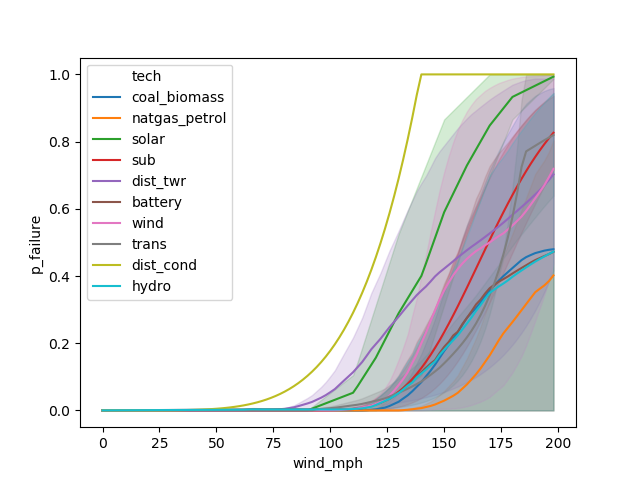
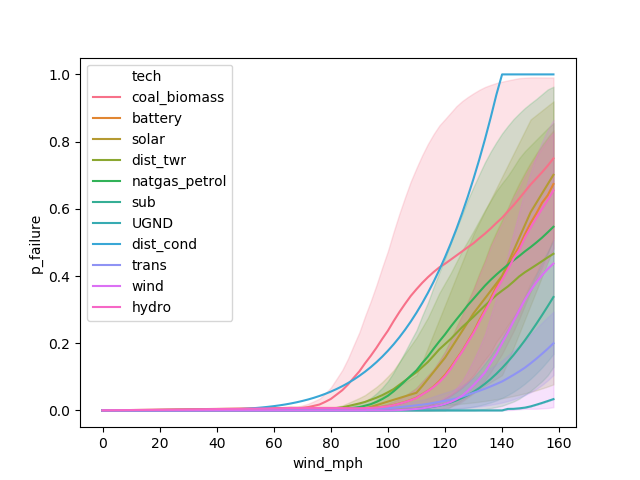
updated selected fragility curves to moderate + severe

diff --git a/examples/puerto_rico_stoch/fragility_curves/select_fragility_curves.py b/examples/puerto_rico_stoch/fragility_curves/select_fragility_curves.py
@@ -13,16 +13,16 @@ import temoatools as tt
 curves = {"trans": ["trans_UK_base", "trans_TX"], "sub": ["sub_HAZUS_severe_k1", "sub_HAZUS_severe_k5"],
         "dist_cond": ["dist_cond_TX"],
           "dist_twr": ["dist_TX", "dist_60yr"], "wind": ["wind_yaw", "wind_nonyaw"],
-          "solar": ["solar_res", "solar_utility"], "coal_biomass": ["secbh_severe", "inf_stiff"],
-          "natgas_petrol": ["secbm_severe", "inf_stiff"], "battery": ["secbl_severe", "inf_stiff"],
-          "hydro": ["cecbl_severe", "inf_stiff"], }
+          "solar": ["solar_res", "solar_utility"], "coal_biomass": ["secbh_moderate", "secbh_severe"],
+          "natgas_petrol": ["secbm_moderate", "secbm_severe"], "battery": ["secbl_moderate", "secbl_severe"],
+          "hydro": ["cecbl_moderate", "cecbl_severe"], "UGND":["secbl_destr","secbl_destr"]}
 
 group1 = "T&D"
 group2 = "Renew"
 group3 = "Other"
 
 groups = {"trans": group1, "sub": group1, "dist_twr": group1, "dist_cond": group1, "wind": group2, "solar": group2, "coal_biomass": group3,
-          "natgas_petrol": group3, "battery": group3, "hydro": group2, }
+          "natgas_petrol": group3, "battery": group3, "hydro": group2, "UGND": group1}
 
 # ================================#
 # Calculate damage across a range of windspeeds
@@ -30,7 +30,7 @@ groups = {"trans": group1, "sub": group1, "dist_twr": group1, "dist_cond": group
 
 cols = ["tech", "curve", "group", "wind_mph", "p_failure"]
 df = pd.DataFrame(columns=cols)
-wind_mph = np.arange(0, 200, 2)
+wind_mph = np.arange(0, 160, 2)
 
 for tech in curves.keys():
     for curve in curves[tech]:
@@ -60,19 +60,26 @@ plt.savefig("fragility_curves_by_tech.png", DPI=1000)
 
 # best and worst case fragility curves for each group
 curves_best = {"trans": "trans_TX", "sub": "sub_HAZUS_severe_k5", "dist_cond": "dist_cond_TX",
-               "dist_twr": "dist_TX", "wind": "wind_yaw", "solar": "solar_utility", "coal_biomass": "inf_stiff",
-               "natgas_petrol": "inf_stiff", "battery": "inf_stiff", "hydro": "inf_stiff", }
+               "dist_twr": "dist_TX", "wind": "wind_yaw", "solar": "solar_utility",
+               "coal_biomass": "secbh_severe",
+               "natgas_petrol": "secbm_severe",
+               "battery": "secbl_severe",
+               "hydro": "cecbl_severe", "UGND":"secbl_severe"}
 
 curves_worst = {"trans": "trans_UK_base",
                 "sub": "sub_HAZUS_severe_k1", "dist_cond": "dist_cond_TX", "dist_twr": "dist_60yr", "wind": "wind_nonyaw",
-                "solar": "solar_res", "coal_biomass": "secbh_severe", "natgas_petrol": "secbm_severe",
-                "battery": "secbl_severe", "hydro": "cecbl_severe", }
+                "solar": "solar_res",
+                "coal_biomass": "secbh_moderate",
+                "natgas_petrol": "secbm_moderate",
+                "battery": "secbl_moderate",
+                "hydro": "cecbl_moderate",
+                "UGND":"secbl_severe"}
 
 
 cols = ["tech", "curve", "group", "wind_mph", "p_failure"]
 df_best = pd.DataFrame(columns=cols)
 df_worst = pd.DataFrame(columns=cols)
-wind_mph = np.arange(0, 200, 2)
+wind_mph = np.arange(0, 160, 2)
 
 # for curve_best_key,curve_worst_key in zip(curves_best, curves_worst):
 #     p_failure_best = tt.fragility(wind_mph, curve=curves_best[curve_best_key])

diff --git a/examples/puerto_rico_stoch/write_stoch_input_files.py b/examples/puerto_rico_stoch/write_stoch_input_files.py
@@ -16,7 +16,7 @@ probabilities_climate_change = [0.16, 0.24, 0.6]  # sum must equal 1
 windspeeds = [20.0, 50.0, 150.0]  # mph
 
 # temoa model technologies and corresponding fragility curve groups
-techs = {'LOCAL': "inf_stiff", 'UGND_TRANS': "inf_stiff", 'UGND_DIST': "inf_stiff", 'TRANS': "trans", 'SUB': "sub",
+techs = {'LOCAL': "inf_stiff", 'UGND_TRANS': "UGND", 'UGND_DIST': "UGND", 'TRANS': "trans", 'SUB': "sub",
          'DIST_COND': "dist_cond", 'DIST_TWR': "dist_twr", 'EX_SOLPV': "solar", 'EC_SOLPV': "solar",
          'ED_SOLPV': "solar", 'EX_WIND': "wind", 'EC_WIND': "wind", 'ED_WIND': "wind", 'EX_COAL': "coal_biomass",
          'EC_BIO': "coal_biomass", 'ED_BIO': "coal_biomass", 'EX_NG_CC': "natgas_petrol", 'EC_NG_CC': "natgas_petrol",
@@ -26,14 +26,21 @@ techs = {'LOCAL': "inf_stiff", 'UGND_TRANS': "inf_stiff", 'UGND_DIST': "inf_stif
          'EX_HYDRO': "hydro", 'EC_BATT': "battery", 'ED_BATT': "battery"}
 
 # best and worst case fragility curves for each group
-curves_best = {"inf_stiff": "inf_stiff", "trans": "trans_TX", "sub": "sub_HAZUS_severe_k5", "dist_cond": "dist_cond_TX",
-               "dist_twr": "dist_TX", "wind": "wind_yaw", "solar": "solar_utility", "coal_biomass": "inf_stiff",
-               "natgas_petrol": "inf_stiff", "battery": "inf_stiff", "hydro": "inf_stiff", }
+curves_best = {"inf_stiff": "inf_stiff","trans": "trans_TX", "sub": "sub_HAZUS_severe_k5", "dist_cond": "dist_cond_TX",
+               "dist_twr": "dist_TX", "wind": "wind_yaw", "solar": "solar_utility",
+               "coal_biomass": "secbh_severe",
+               "natgas_petrol": "secbm_severe",
+               "battery": "secbl_severe",
+               "hydro": "cecbl_severe", "UGND":"secbl_severe"}
 
-curves_worst = {"inf_stiff": "inf_stiff", "trans": "trans_UK_base", "sub": "sub_HAZUS_severe_k1",
-                "dist_cond": "dist_cond_TX", "dist_twr": "dist_60yr", "wind": "wind_nonyaw", "solar": "solar_res",
-                "coal_biomass": "secbh_severe", "natgas_petrol": "secbm_severe", "battery": "secbl_severe",
-                "hydro": "cecbl_severe", }
+curves_worst = {"inf_stiff": "inf_stiff","trans": "trans_UK_base",
+                "sub": "sub_HAZUS_severe_k1", "dist_cond": "dist_cond_TX", "dist_twr": "dist_60yr", "wind": "wind_nonyaw",
+                "solar": "solar_res",
+                "coal_biomass": "secbh_moderate",
+                "natgas_petrol": "secbm_moderate",
+                "battery": "secbl_moderate",
+                "hydro": "cecbl_moderate",
+                "UGND":"secbl_severe"}
 
 # Create directory to store outputs
 wrkdir = os.getcwd()
@@ -44,7 +51,7 @@ except:
     os.mkdir(stochdir)
 os.chdir(stochdir)
 
-n_cases = 4
+n_cases = 2#4
 for case in range(n_cases):
 
     # historical + 'best" fragility curves
